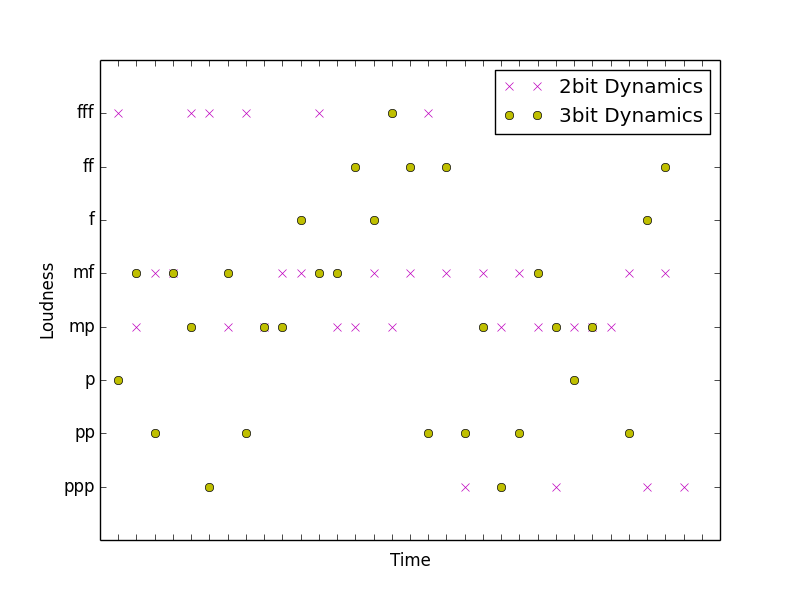
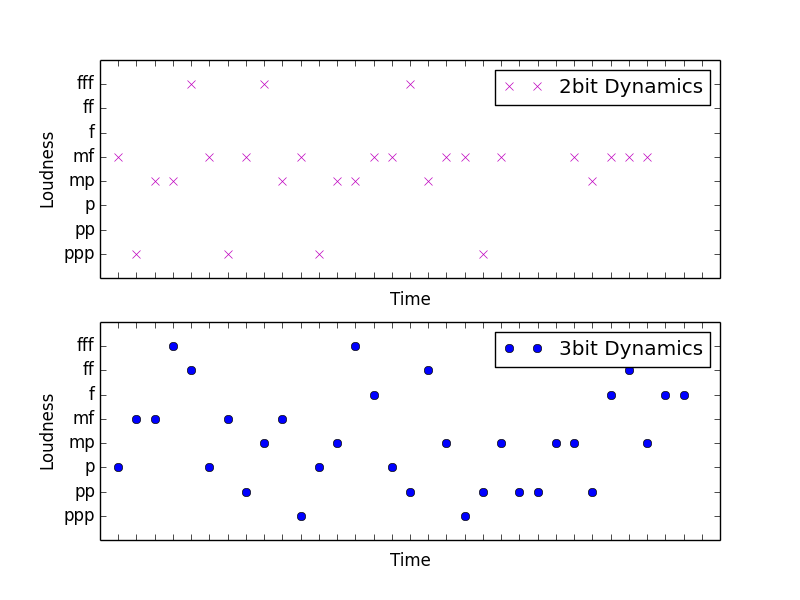
update dynamics graph

diff --git a/source/dynamics.py b/source/dynamics.py
@@ -7,6 +7,8 @@ d3 = [ dsp.randchoose([1,4,5,8]) for p in x ]
 
 d7 = [ dsp.randint(1, 8) for p in x ]
 
+pp.subplot(211)
+
 pp.plot(x, d3, 
     marker='x', 
     linestyle=' ', 
@@ -14,10 +16,21 @@ pp.plot(x, d3,
     label='2bit Dynamics'
 )
 
+pp.xlabel('Time')
+pp.ylabel('Loudness')
+#pp.grid(True)
+pp.ylim(0, 9)
+pp.yticks(range(9), ['', 'ppp', 'pp', 'p', 'mp', 'mf', 'f', 'ff', 'fff', 'ffff', ''])
+pp.xlim(-1,32)
+pp.xticks(range(34), [ '' for t in range(34) ])
+pp.legend()
+
+pp.subplot(212)
+
 pp.plot(x, d7, 
     marker='o', 
     linestyle=' ', 
-    color='y', 
+    color='b', 
     label='3bit Dynamics'
 )
 
